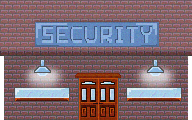
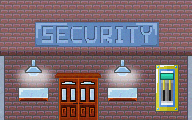
Changed guard station sprite and fixed a few bugs

Changed region(s): [[0.0625, 0.45, 1.0, 1.0], [0.0, 0.45, 0.0312, 1.0]]

diff --git a/src/main.js b/src/main.js
@@ -450,13 +450,16 @@ Pacman.prototype = {
         if (levelWin === true) {
             levelWin = false;
             stage++;
-            if (requiredDots < 200) {
+            if (requiredDots < 175) {
                 requiredDots += 25;
-                score = 0;
+                
             }
             fireSound.stop();
             redTint.kill();
-
+            currentDots = 0;
+            score = 0;
+            text.setStyle({ font: "24px Arial", fill: "#ff0000", align: "center" });
+            
             game.state.start('Game');
 
 
@@ -475,6 +478,8 @@ Pacman.prototype = {
         }
         else {
             this.lives--;
+            fireSound.stop();
+            redTint.kill();
 
             if (this.lives < 1) {
                 this.lives = 3;
